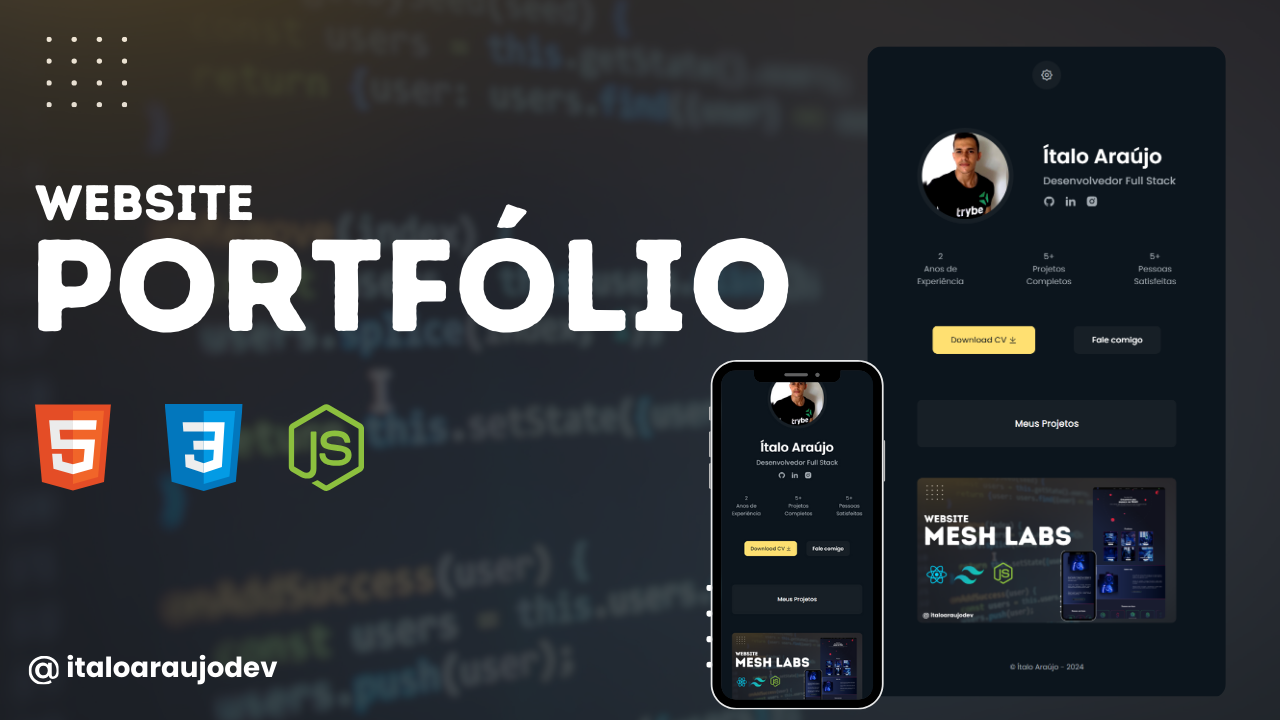
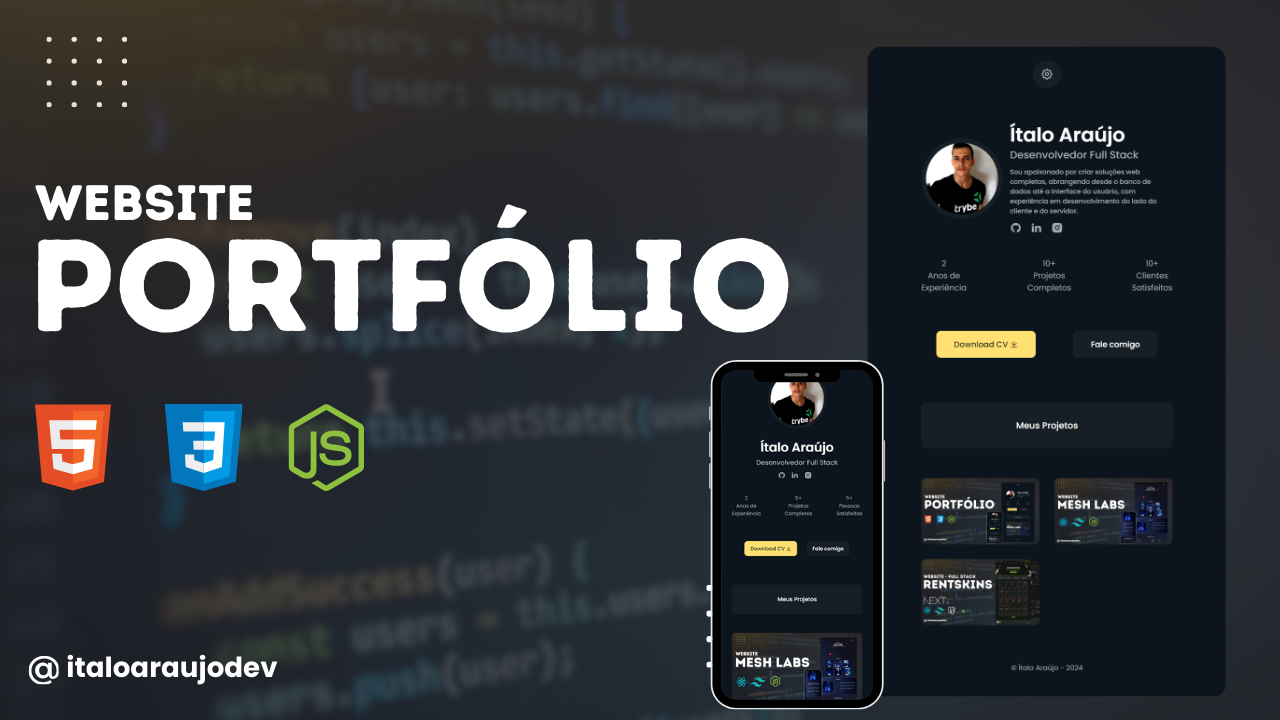
Add novo projeto

diff --git a/index.html b/index.html
@@ -82,13 +82,25 @@
       </div>
 
       <div class="portfolio">
+
+        <div class="portfolio-content">
+          <img src="./imagens/Shopsy.png" alt="Mesh Labs">
+          <div class="layer">
+            <h5>Shopsy</h5>
+            <div>
+              <!-- <a href="#"><i class="ri-external-link-line"></i></a> -->
+              <a href="https://github.com/ItaloAraujodev/shopsy" target="_blank"><i class="ri-external-link-line"></i></a>
+              <a href="https://shopsy-eight.vercel.app" target="_blank"><i class="ri-eye-fill"></i></a>
+            </div>
+          </div>
+        </div>
         
         <div class="portfolio-content">
           <img src="./imagens/portfolio.png" alt="portfolio">
           <div class="layer">
             <h5>Portfólio</h5>
             <div>
-               <a href="https://github.com/ItaloAraujodev/Portfolio-atual" target="_blank"><i class="ri-external-link-line"></i></a>
+              <a href="https://github.com/ItaloAraujodev/Portfolio-atual" target="_blank"><i class="ri-external-link-line"></i></a>
               <a href="https://italoaraujodev-portfolio.vercel.app/" target="_blank"><i class="ri-eye-fill"></i></a>
             </div>
           </div>
@@ -116,6 +128,7 @@
             </div>
           </div>
         </div>
+
 
       </div>
     </div>
